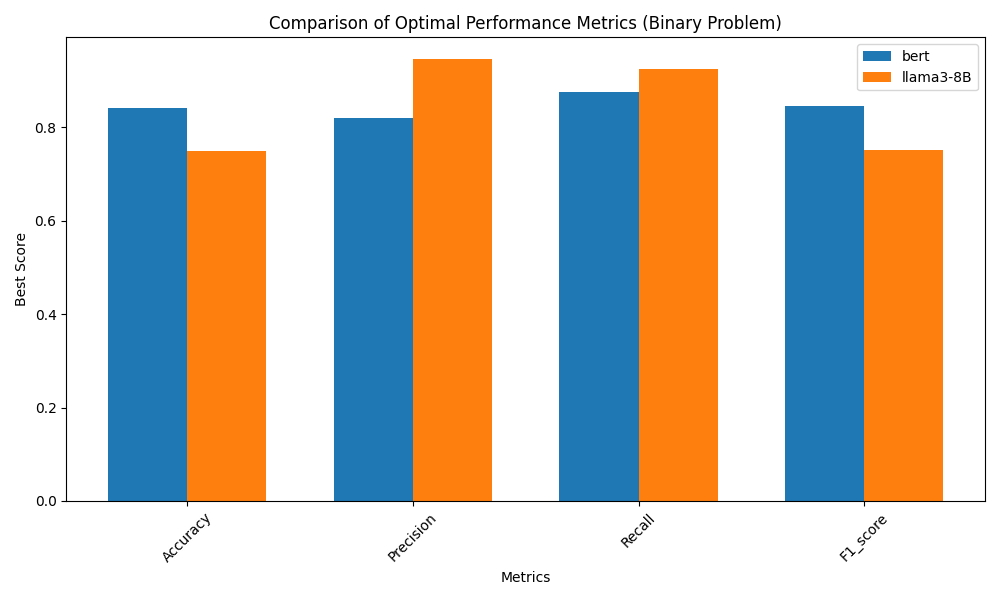
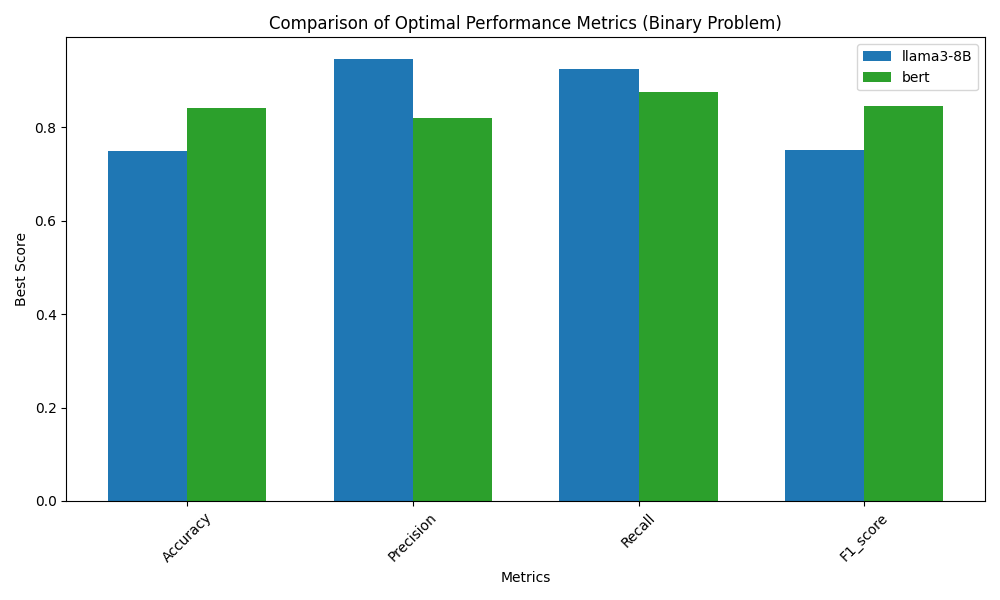
update plots

diff --git a/binary/eval/compare_methods.py b/binary/eval/compare_methods.py
@@ -23,32 +23,25 @@ df1_long = pd.DataFrame({
     'Best Score bert': [df1['Accuracy'][0], df1['Precision'][0], df1['Recall'][0], df1['F1_score'][0]]
 })
 
-# Print the long format dataframe to debug
-print("\nDF1 Long Format:")
-print(df1_long)
-
 # Rename columns to match the expected format
 df2 = df2.rename(columns={'Best Score': 'Best Score llama3-8B'})
 
-# Print df2 to debug
-print("\nDF2:")
-print(df2)
-
 # Merge dataframes on the Metric column
-merged_df = pd.merge(df1_long, df2[['Metric', 'Best Score llama3-8B']], on='Metric', how='outer')
+merged_df = pd.merge(df2[['Metric', 'Best Score llama3-8B']], df1_long, on='Metric', how='outer')
 
-# Print the merged dataframe to debug
-print("\nMerged DataFrame:")
-print(merged_df)
+# Set the order of the metrics
+order = ['Accuracy', 'Precision', 'Recall', 'F1_score']
+merged_df['Metric'] = pd.Categorical(merged_df['Metric'], categories=order, ordered=True)
+merged_df = merged_df.sort_values('Metric')
 
 # Plotting the results
 plt.figure(figsize=(10, 6))
 bar_width = 0.35
 index = range(len(merged_df['Metric']))
 
-# Plot bars
-plt.bar([i - bar_width/2 for i in index], merged_df['Best Score bert'], bar_width, label='bert')
-plt.bar([i + bar_width/2 for i in index], merged_df['Best Score llama3-8B'], bar_width, label='llama3-8B')
+# Plot bars with llama3-8B on the left (deep blue) and bert on the right (teal)
+plt.bar([i - bar_width/2 for i in index], merged_df['Best Score llama3-8B'], bar_width, label='llama3-8B', color='#1f77b4')  # deep blue
+plt.bar([i + bar_width/2 for i in index], merged_df['Best Score bert'], bar_width, label='bert', color='#2ca02c')  # teal
 
 # Add labels, title, and legend
 plt.xlabel('Metrics')

diff --git a/multilabel/eval/compare_methods.py b/multilabel/eval/compare_methods.py
@@ -22,6 +22,11 @@ df1 = df1[['Metric', 'Best Score']].rename(columns={'Best Score': 'Best Score ll
 df2 = df2[['Metric', 'Best Score']].rename(columns={'Best Score': 'Best Score bert'})
 merged_df = pd.merge(df1, df2, on='Metric')
 
+# Set the order of the metrics
+order = ['Accuracy', 'Precision', 'Recall', 'F1_score']
+merged_df['Metric'] = pd.Categorical(merged_df['Metric'], categories=order, ordered=True)
+merged_df = merged_df.sort_values('Metric')
+
 # Print the merged dataframe to debug
 print("\nMerged DataFrame:")
 print(merged_df)
@@ -31,9 +36,9 @@ plt.figure(figsize=(10, 6))
 bar_width = 0.35
 index = range(len(merged_df['Metric']))
 
-# Plot bars
-plt.bar([i - bar_width/2 for i in index], merged_df['Best Score llama3-8B'], bar_width, label='llama3-8B')
-plt.bar([i + bar_width/2 for i in index], merged_df['Best Score bert'], bar_width, label='bert')
+# Plot bars with llama3-8B on the left (deep blue) and bert on the right (teal)
+plt.bar([i - bar_width/2 for i in index], merged_df['Best Score llama3-8B'], bar_width, label='llama3-8B', color='#1f77b4')  # deep blue
+plt.bar([i + bar_width/2 for i in index], merged_df['Best Score bert'], bar_width, label='bert', color='#2ca02c')  # teal
 
 # Add labels, title, and legend
 plt.xlabel('Metrics')
